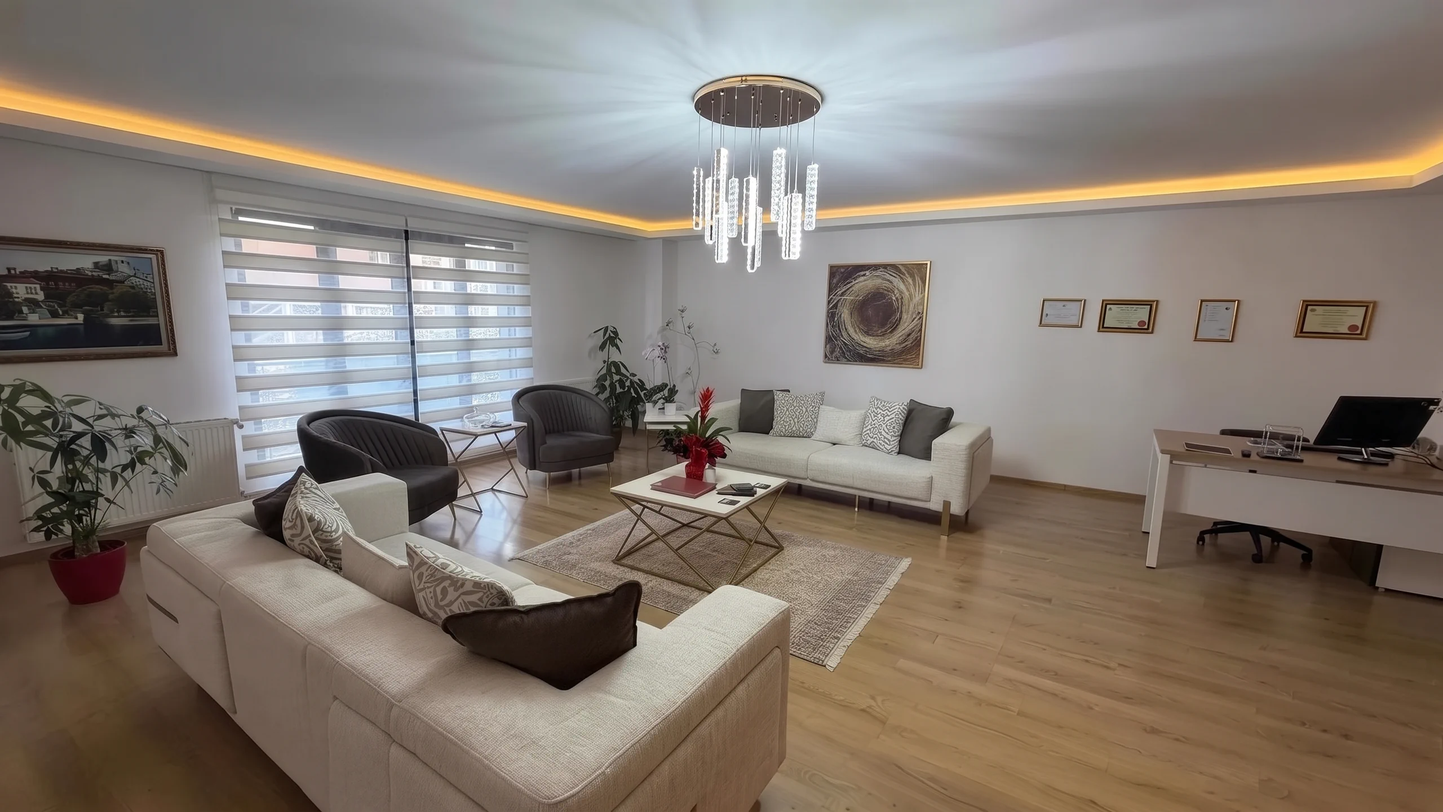
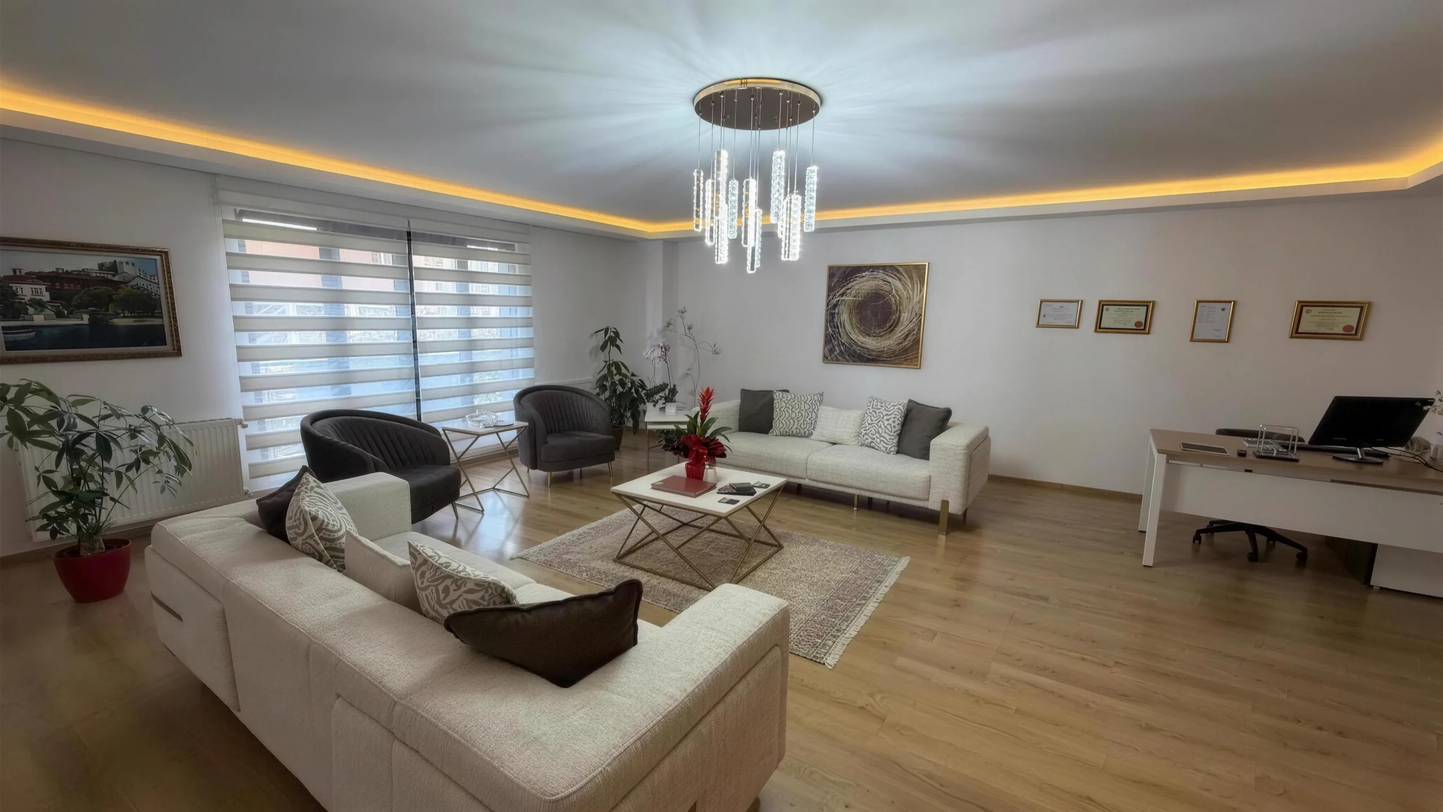
Muayenehane ve cihaz görselleri gerçek fotoğraflarına geri döndü (Tanıtım Yönetmeliği md. 7e)
- Bekleme salonu ×2, uygulama odası, PRP tüpleri ve 5 cihaz kesimi f40905e~1 hâline; medya.js eski satırları
  (WordPress'te eski dosya adları), yayın ilkeleri, mevzuat, klinik ve iletişim sayfaları eski metne döndü.
- Gerekçe: RG 12.11.2025/33075 md. 7(e) görsele sonradan teknolojik değişiklik yasağı; kullanıcı kararı.
- Konu anlatan 80 yapay zekâ görseli (rozetli) yeni 2K hâliyle kalıyor.
- Yerel: 9 yenileme hata 0, 104 ek kopya 0.

diff --git a/site/veri/medya.js b/site/veri/medya.js
@@ -32,16 +32,16 @@ const TABLO = {
   'foto/hekim-portre.webp': { ad: 'uzm-dr-rahmi-cebeci-portre', alt: 'Uzm. Dr. Rahmi Cebeci, Bakırköy’deki muayenehanesinde ayakta ve kolları bağlı', baslik: 'Uzm. Dr. Rahmi Cebeci — portre' },   /* hekim · rahmi cebeci */
   'foto/hekim-koltuk.webp': { ad: 'muayene-sureci-dr-rahmi-cebeci', alt: 'Muayene sürecini yürüten Uzm. Dr. Rahmi Cebeci, Bakırköy’deki muayenehanesinde koltukta otururken', baslik: 'Uzm. Dr. Rahmi Cebeci — muayenehanede' },   /* yaklasimimiz · muayene süreci */
   'foto/hekim-kare.webp': { ad: 'hekim-muayenesi-dr-rahmi-cebeci', alt: 'Hekim muayenesini yapan Uzm. Dr. Rahmi Cebeci, muayenehanesindeki koltuğunda', baslik: 'Uzm. Dr. Rahmi Cebeci — hekim muayenesi' },   /* uygulamalar/hekim-muayenesi · hekim muayenesi */
-  'foto/klinik-bekleme.webp': { ad: 'bakirkoy-muayenehane-bekleme-salonu', surum: '2k', alt: 'Dr. Rahmi Cebeci’nin Bakırköy muayenehanesindeki bekleme salonu', baslik: 'Muayenehane — bekleme salonu' },   /* klinik · bakırköy muayenehane */
-  'foto/klinik-bekleme-2.webp': { ad: 'iletisim-ve-randevu-karsilama-bankosu', surum: '2k', alt: 'İletişim ve randevu işlemlerinin yapıldığı karşılama bankosu ve muayenehanenin bekleme salonu', baslik: 'Muayenehane — karşılama bankosu' },   /* iletisim · iletişim ve randevu */
+  'foto/klinik-bekleme.webp': { ad: 'bakirkoy-muayenehane-bekleme-salonu', surum: 'hd', alt: 'Dr. Rahmi Cebeci’nin Bakırköy muayenehanesindeki bekleme salonu', baslik: 'Muayenehane — bekleme salonu' },   /* klinik · bakırköy muayenehane */
+  'foto/klinik-bekleme-2.webp': { ad: 'iletisim-ve-randevu-karsilama-bankosu', surum: 'hd', alt: 'İletişim ve randevu işlemlerinin yapıldığı karşılama bankosu ve muayenehanenin bekleme salonu', baslik: 'Muayenehane — karşılama bankosu' },   /* iletisim · iletişim ve randevu */
   'foto/klinik-cihaz-odasi.webp': { ad: 'dovme-silme-pikosaniye-lazer-cihaz-odasi', alt: 'Dövme silme için kullanılan pikosaniye lazer cihazının pencere önünde durduğu cihaz odası', baslik: 'Muayenehane — lazer ve cihaz odası' },   /* 28 Eyl'e kadar dövme silme kapağıydı; şu an sayfada yok, kütüphanede duruyor */
-  'foto/klinik-uygulama-odasi.webp': { ad: 'bakirkoy-muayenehane-uygulama-odasi', surum: '2k', alt: 'Bakırköy muayenehanemizde uygulamaların yapıldığı uygulama odası', baslik: 'Muayenehane — uygulama odası' },
-  'foto/prp-tupler.webp': { ad: 'sac-prp-kan-tupleri', surum: '2k', alt: 'Saç PRP için alınan kanın konduğu etiketli tüpler', baslik: 'Saç PRP — kan tüpleri' },
-  'foto/cihaz-pico-dekupe.webp': { ad: 'pikosaniye-lazer-cihazi-picodela-ii', surum: '2k', alt: 'Muayenehanede kullanılan pikosaniye lazer cihazı Picodela II (Nd:YAG)', baslik: 'Cihaz — Picodela II pikosaniye lazer' },
-  'foto/cihaz-fotona-dekupe.webp': { ad: 'fraksiyonel-lazer-cihazi-fotona-sp-dynamis', surum: '2k', alt: 'Muayenehanede kullanılan fraksiyonel lazer cihazı Fotona SP Dynamis', baslik: 'Cihaz — Fotona SP Dynamis' },
-  'foto/cihaz-altin-igne-dekupe.webp': { ad: 'altin-igne-radyofrekans-cihazi-allura', surum: '2k', alt: 'Muayenehanede kullanılan altın iğne radyofrekans cihazı Allura VI++ RF mikroiğne', baslik: 'Cihaz — Allura VI++ RF mikroiğne' },
-  'foto/cihaz-hifu-dekupe.webp': { ad: 'hifu-cihazi-allura-nano-hifu', surum: '2k', alt: 'Muayenehanede kullanılan HIFU cihazı Allura IV++ Nano HIFU', baslik: 'Cihaz — Allura IV++ Nano HIFU' },
-  'foto/cihaz-mezo-dekupe.webp': { ad: 'ignesiz-mezoterapi-cihazi-mes-button', surum: '2k', alt: 'Muayenehanede kullanılan iğnesiz mezoterapi cihazı Mes Button', baslik: 'Cihaz — Mes Button iğnesiz mezoterapi' },
+  'foto/klinik-uygulama-odasi.webp': { ad: 'bakirkoy-muayenehane-uygulama-odasi', surum: 'hd', alt: 'Bakırköy muayenehanemizde uygulamaların yapıldığı uygulama odası', baslik: 'Muayenehane — uygulama odası' },
+  'foto/prp-tupler.webp': { ad: 'sac-prp-kan-tupleri', alt: 'Saç PRP için alınan kanın konduğu etiketli tüpler', baslik: 'Saç PRP — kan tüpleri' },
+  'foto/cihaz-pico-dekupe.webp': { ad: 'pikosaniye-lazer-cihazi-picodela-ii', alt: 'Muayenehanede kullanılan pikosaniye lazer cihazı Picodela II (Nd:YAG)', baslik: 'Cihaz — Picodela II pikosaniye lazer' },
+  'foto/cihaz-fotona-dekupe.webp': { ad: 'fraksiyonel-lazer-cihazi-fotona-sp-dynamis', alt: 'Muayenehanede kullanılan fraksiyonel lazer cihazı Fotona SP Dynamis', baslik: 'Cihaz — Fotona SP Dynamis' },
+  'foto/cihaz-altin-igne-dekupe.webp': { ad: 'altin-igne-radyofrekans-cihazi-allura', alt: 'Muayenehanede kullanılan altın iğne radyofrekans cihazı Allura VI++ RF mikroiğne', baslik: 'Cihaz — Allura VI++ RF mikroiğne' },
+  'foto/cihaz-hifu-dekupe.webp': { ad: 'hifu-cihazi-allura-nano-hifu', alt: 'Muayenehanede kullanılan HIFU cihazı Allura IV++ Nano HIFU', baslik: 'Cihaz — Allura IV++ Nano HIFU' },
+  'foto/cihaz-mezo-dekupe.webp': { ad: 'ignesiz-mezoterapi-cihazi-mes-button', alt: 'Muayenehanede kullanılan iğnesiz mezoterapi cihazı Mes Button', baslik: 'Cihaz — Mes Button iğnesiz mezoterapi' },
 
   /* ---------- sayfa kapakları (üst kısım) ---------- */
   'gorsel/bolgeler-hero.webp': { ad: 'medikal-estetik-bolgeleri-yuz-boyun-omuz', surum: '2k', alt: 'Medikal estetik bölgeleri: yüzü, boynu ve omuzları yumuşak ışıkta görünen kadın', baslik: 'Bölgeler — kapak' },   /* bolgeler · medikal estetik bölgeleri */

diff --git a/site/veri/sayfalar/yasal/icerik-ve-gorsel-yayin-ilkelerimiz.js b/site/veri/sayfalar/yasal/icerik-ve-gorsel-yayin-ilkelerimiz.js
@@ -14,7 +14,7 @@ module.exports = {
   <div class="sar">
     <p class="g-etiket">Mevzuat notu</p>
     <h1>Yayın ve Görsel Kullanım Esaslarımız</h1>
-    <p class="g-bhero__alt">Sitemizde yer vermediğimiz içerikler bilinçli bir seçimin sonucudur: ücret bilgisi, hasta yorumları ve deneyim anlatıları, öncesi–sonrası karşılaştırmaları, hastalara ait fotoğraflar ve uygulama sırasında çekilmiş görüntüler. Bu seçimin iki dayanağı var: sağlık hizmetlerinin tanıtımına ilişkin güncel mevzuat ve hastada karşılığı olmayan bir beklenti uyandırmama kaygısı. Hekimin portreleri muayenehanemizde çekilmiş gerçek fotoğraflardır. Muayenehane ve cihaz görselleri, kendi fotoğraflarımız temel alınarak yapay zekâ ile yeniden işlenmiştir; mekânın düzeni ve cihazların görünümü korunmuştur. Konuyu anlatan diğer görseller yapay zekâ ile hazırlanmış temsilî görsellerdir ve sayfadaki büyük hâllerinin üzerinde bir rozetle belirtilir.</p>
+    <p class="g-bhero__alt">Sitemizde yer vermediğimiz içerikler bilinçli bir seçimin sonucudur: ücret bilgisi, hasta yorumları ve deneyim anlatıları, öncesi–sonrası karşılaştırmaları, hastalara ait fotoğraflar ve uygulama sırasında çekilmiş görüntüler. Bu seçimin iki dayanağı var: sağlık hizmetlerinin tanıtımına ilişkin güncel mevzuat ve hastada karşılığı olmayan bir beklenti uyandırmama kaygısı. Gerçek fotoğrafların tümü muayenehanemize aittir; geri kalan görseller yapay zekâ ile hazırlanmış temsilî görsellerdir ve sayfadaki büyük hâllerinin üzerinde bir rozetle belirtilir.</p>
     <div class="g-bmeta">
       <span><i></i>Son güncelleme: ${S.guncelleme}</span>
       <span><i></i>Hastalara ait görüntü ve yorum yok</span>
@@ -101,10 +101,9 @@ module.exports = {
       <div class="g-bblk" id="gorsellerin-kaynagi">
         <h2>Fotoğraflar ve temsilî görseller</h2>
         <div class="yazi">
-          <p>Sitede üç çeşit görsel var; hiçbiri hasta görüntüsü içermez. İlki hekimin portreleridir: muayenehanemizde çekilmiş gerçek fotoğraflardır.</p>
-          <p>İkincisi muayenehane ve cihaz görselleridir. Bekleme salonu, karşılama bankosu, uygulama odası ve muayenehanede kullanılan cihazların görselleri, kendi fotoğraflarımız temel alınarak yapay zekâ ile yeniden işlenmiştir. İşlemede mekânın düzeni ve cihazların görünümü korunmuştur; muayenehanede bulunmayan bir mekân ya da cihaz gösterilmez.</p>
-          <p>Üçüncüsü, anlatılanı somutlaştırmak için yapay zekâ ile hazırlanmış temsilî görsellerdir: yüz ve bölge çizimleri, cilt katmanlarını gösteren kesitler, doku ve ortam görselleri bu gruptadır. Bu görsellerin sayfadaki büyük hâlinde <b>“Temsilî görsel · yapay zekâ ile üretildi”</b> rozeti yer alır. Rozet küçük bir dipnota ya da sayfa sonuna saklanmaz; doğrudan görselin üzerinde, okunabilir biçimde durur. Bölge ve cilt sorunu sayfalarında uygulama tablosunun yanında açılan küçük önizleme kartında ise aynı görsellerin küçük bir kopyası gösterilir; bu kartta ayrıca rozet bulunmaz, rozetli büyük hâli bağlantının götürdüğü uygulama sayfasındadır.</p>
-          <p>Yapay zekâ görsellerine başvurmadığımız alanlar da nettir: klinik bir bulguyu anlatmak, herhangi bir tedavi sonucunu düşündürecek bir kompozisyon kurmak, hekimi ya da ekibi temsil etmek, muayenehanede bulunmayan bir mekânı ya da cihazı varmış gibi göstermek. Amacımız, sitedeki görsellerin hiçbirinin muayenehaneyi olduğundan farklı göstermemesi ve hastada karşılığı olmayan bir beklenti uyandırmamasıdır.</p>
+          <p>Sitede iki çeşit görsel var; ikisi de hasta görüntüsü içermez. İlki gerçek fotoğraflardır: hekimin portreleri, bekleme salonu, karşılama bankosu, uygulama odası, cihaz odası ve muayenehanede kullanılan cihazların fotoğrafları muayenehanemize aittir. Bu fotoğraflarda kişiler, mekân ve cihazlar olduğundan başka türlü gösterilmez; bu yüzden üzerlerinde yapay zekâ rozeti yer almaz.</p>
+          <p>İkincisi, anlatılanı somutlaştırmak için yapay zekâ ile hazırlanmış temsilî görsellerdir: yüz ve bölge çizimleri, cilt katmanlarını gösteren kesitler, doku ve ortam görselleri bu gruptadır. Bu görsellerin sayfadaki büyük hâlinde <b>“Temsilî görsel · yapay zekâ ile üretildi”</b> rozeti yer alır. Rozet küçük bir dipnota ya da sayfa sonuna saklanmaz; doğrudan görselin üzerinde, okunabilir biçimde durur. Bölge ve cilt sorunu sayfalarında uygulama tablosunun yanında açılan küçük önizleme kartında ise aynı görsellerin küçük bir kopyası gösterilir; bu kartta ayrıca rozet bulunmaz, rozetli büyük hâli bağlantının götürdüğü uygulama sayfasındadır.</p>
+          <p>Yapay zekâ görsellerine başvurmadığımız alanlar da nettir: klinik bir bulguyu anlatmak, herhangi bir tedavi sonucunu düşündürecek bir kompozisyon kurmak, hekimi ya da ekibi temsil etmek, muayenehanenin kendisini veya cihazlarını gerçekmiş gibi göstermek. Amacımız, sitedeki herhangi bir görsele bakan kişinin onun muayenehaneye ait gerçek bir fotoğraf mı, yoksa konuyu anlatmaya yardım eden temsilî bir çizim mi olduğunu hemen ayırt edebilmesi.</p>
         </div>
       </div>
 

diff --git a/docs/yasal/icerik-ve-gorsel-yayin-ilkelerimiz/index.html b/docs/yasal/icerik-ve-gorsel-yayin-ilkelerimiz/index.html
@@ -80,7 +80,7 @@
   <div class="sar">
     <p class="g-etiket">Mevzuat notu</p>
     <h1>Yayın ve Görsel Kullanım Esaslarımız</h1>
-    <p class="g-bhero__alt">Sitemizde yer vermediğimiz içerikler bilinçli bir seçimin sonucudur: ücret bilgisi, hasta yorumları ve deneyim anlatıları, öncesi–sonrası karşılaştırmaları, hastalara ait fotoğraflar ve uygulama sırasında çekilmiş görüntüler. Bu seçimin iki dayanağı var: sağlık hizmetlerinin tanıtımına ilişkin güncel mevzuat ve hastada karşılığı olmayan bir beklenti uyandırmama kaygısı. Hekimin portreleri muayenehanemizde çekilmiş gerçek fotoğraflardır. Muayenehane ve cihaz görselleri, kendi fotoğraflarımız temel alınarak yapay zekâ ile yeniden işlenmiştir; mekânın düzeni ve cihazların görünümü korunmuştur. Konuyu anlatan diğer görseller yapay zekâ ile hazırlanmış temsilî görsellerdir ve sayfadaki büyük hâllerinin üzerinde bir rozetle belirtilir.</p>
+    <p class="g-bhero__alt">Sitemizde yer vermediğimiz içerikler bilinçli bir seçimin sonucudur: ücret bilgisi, hasta yorumları ve deneyim anlatıları, öncesi–sonrası karşılaştırmaları, hastalara ait fotoğraflar ve uygulama sırasında çekilmiş görüntüler. Bu seçimin iki dayanağı var: sağlık hizmetlerinin tanıtımına ilişkin güncel mevzuat ve hastada karşılığı olmayan bir beklenti uyandırmama kaygısı. Gerçek fotoğrafların tümü muayenehanemize aittir; geri kalan görseller yapay zekâ ile hazırlanmış temsilî görsellerdir ve sayfadaki büyük hâllerinin üzerinde bir rozetle belirtilir.</p>
     <div class="g-bmeta">
       <span><i></i>Son güncelleme: 25.09.2026</span>
       <span><i></i>Hastalara ait görüntü ve yorum yok</span>
@@ -167,10 +167,9 @@
       <div class="g-bblk" id="gorsellerin-kaynagi">
         <h2>Fotoğraflar ve temsilî görseller</h2>
         <div class="yazi">
-          <p>Sitede üç çeşit görsel var; hiçbiri hasta görüntüsü içermez. İlki hekimin portreleridir: muayenehanemizde çekilmiş gerçek fotoğraflardır.</p>
-          <p>İkincisi muayenehane ve cihaz görselleridir. Bekleme salonu, karşılama bankosu, uygulama odası ve muayenehanede kullanılan cihazların görselleri, kendi fotoğraflarımız temel alınarak yapay zekâ ile yeniden işlenmiştir. İşlemede mekânın düzeni ve cihazların görünümü korunmuştur; muayenehanede bulunmayan bir mekân ya da cihaz gösterilmez.</p>
-          <p>Üçüncüsü, anlatılanı somutlaştırmak için yapay zekâ ile hazırlanmış temsilî görsellerdir: yüz ve bölge çizimleri, cilt katmanlarını gösteren kesitler, doku ve ortam görselleri bu gruptadır. Bu görsellerin sayfadaki büyük hâlinde <b>“Temsilî görsel · yapay zekâ ile üretildi”</b> rozeti yer alır. Rozet küçük bir dipnota ya da sayfa sonuna saklanmaz; doğrudan görselin üzerinde, okunabilir biçimde durur. Bölge ve cilt sorunu sayfalarında uygulama tablosunun yanında açılan küçük önizleme kartında ise aynı görsellerin küçük bir kopyası gösterilir; bu kartta ayrıca rozet bulunmaz, rozetli büyük hâli bağlantının götürdüğü uygulama sayfasındadır.</p>
-          <p>Yapay zekâ görsellerine başvurmadığımız alanlar da nettir: klinik bir bulguyu anlatmak, herhangi bir tedavi sonucunu düşündürecek bir kompozisyon kurmak, hekimi ya da ekibi temsil etmek, muayenehanede bulunmayan bir mekânı ya da cihazı varmış gibi göstermek. Amacımız, sitedeki görsellerin hiçbirinin muayenehaneyi olduğundan farklı göstermemesi ve hastada karşılığı olmayan bir beklenti uyandırmamasıdır.</p>
+          <p>Sitede iki çeşit görsel var; ikisi de hasta görüntüsü içermez. İlki gerçek fotoğraflardır: hekimin portreleri, bekleme salonu, karşılama bankosu, uygulama odası, cihaz odası ve muayenehanede kullanılan cihazların fotoğrafları muayenehanemize aittir. Bu fotoğraflarda kişiler, mekân ve cihazlar olduğundan başka türlü gösterilmez; bu yüzden üzerlerinde yapay zekâ rozeti yer almaz.</p>
+          <p>İkincisi, anlatılanı somutlaştırmak için yapay zekâ ile hazırlanmış temsilî görsellerdir: yüz ve bölge çizimleri, cilt katmanlarını gösteren kesitler, doku ve ortam görselleri bu gruptadır. Bu görsellerin sayfadaki büyük hâlinde <b>“Temsilî görsel · yapay zekâ ile üretildi”</b> rozeti yer alır. Rozet küçük bir dipnota ya da sayfa sonuna saklanmaz; doğrudan görselin üzerinde, okunabilir biçimde durur. Bölge ve cilt sorunu sayfalarında uygulama tablosunun yanında açılan küçük önizleme kartında ise aynı görsellerin küçük bir kopyası gösterilir; bu kartta ayrıca rozet bulunmaz, rozetli büyük hâli bağlantının götürdüğü uygulama sayfasındadır.</p>
+          <p>Yapay zekâ görsellerine başvurmadığımız alanlar da nettir: klinik bir bulguyu anlatmak, herhangi bir tedavi sonucunu düşündürecek bir kompozisyon kurmak, hekimi ya da ekibi temsil etmek, muayenehanenin kendisini veya cihazlarını gerçekmiş gibi göstermek. Amacımız, sitedeki herhangi bir görsele bakan kişinin onun muayenehaneye ait gerçek bir fotoğraf mı, yoksa konuyu anlatmaya yardım eden temsilî bir çizim mi olduğunu hemen ayırt edebilmesi.</p>
         </div>
       </div>
 

diff --git a/yayin/yasal/icerik-ve-gorsel-yayin-ilkelerimiz/index.html b/yayin/yasal/icerik-ve-gorsel-yayin-ilkelerimiz/index.html
@@ -80,7 +80,7 @@
   <div class="sar">
     <p class="g-etiket">Mevzuat notu</p>
     <h1>Yayın ve Görsel Kullanım Esaslarımız</h1>
-    <p class="g-bhero__alt">Sitemizde yer vermediğimiz içerikler bilinçli bir seçimin sonucudur: ücret bilgisi, hasta yorumları ve deneyim anlatıları, öncesi–sonrası karşılaştırmaları, hastalara ait fotoğraflar ve uygulama sırasında çekilmiş görüntüler. Bu seçimin iki dayanağı var: sağlık hizmetlerinin tanıtımına ilişkin güncel mevzuat ve hastada karşılığı olmayan bir beklenti uyandırmama kaygısı. Hekimin portreleri muayenehanemizde çekilmiş gerçek fotoğraflardır. Muayenehane ve cihaz görselleri, kendi fotoğraflarımız temel alınarak yapay zekâ ile yeniden işlenmiştir; mekânın düzeni ve cihazların görünümü korunmuştur. Konuyu anlatan diğer görseller yapay zekâ ile hazırlanmış temsilî görsellerdir ve sayfadaki büyük hâllerinin üzerinde bir rozetle belirtilir.</p>
+    <p class="g-bhero__alt">Sitemizde yer vermediğimiz içerikler bilinçli bir seçimin sonucudur: ücret bilgisi, hasta yorumları ve deneyim anlatıları, öncesi–sonrası karşılaştırmaları, hastalara ait fotoğraflar ve uygulama sırasında çekilmiş görüntüler. Bu seçimin iki dayanağı var: sağlık hizmetlerinin tanıtımına ilişkin güncel mevzuat ve hastada karşılığı olmayan bir beklenti uyandırmama kaygısı. Gerçek fotoğrafların tümü muayenehanemize aittir; geri kalan görseller yapay zekâ ile hazırlanmış temsilî görsellerdir ve sayfadaki büyük hâllerinin üzerinde bir rozetle belirtilir.</p>
     <div class="g-bmeta">
       <span><i></i>Son güncelleme: 25.09.2026</span>
       <span><i></i>Hastalara ait görüntü ve yorum yok</span>
@@ -167,10 +167,9 @@
       <div class="g-bblk" id="gorsellerin-kaynagi">
         <h2>Fotoğraflar ve temsilî görseller</h2>
         <div class="yazi">
-          <p>Sitede üç çeşit görsel var; hiçbiri hasta görüntüsü içermez. İlki hekimin portreleridir: muayenehanemizde çekilmiş gerçek fotoğraflardır.</p>
-          <p>İkincisi muayenehane ve cihaz görselleridir. Bekleme salonu, karşılama bankosu, uygulama odası ve muayenehanede kullanılan cihazların görselleri, kendi fotoğraflarımız temel alınarak yapay zekâ ile yeniden işlenmiştir. İşlemede mekânın düzeni ve cihazların görünümü korunmuştur; muayenehanede bulunmayan bir mekân ya da cihaz gösterilmez.</p>
-          <p>Üçüncüsü, anlatılanı somutlaştırmak için yapay zekâ ile hazırlanmış temsilî görsellerdir: yüz ve bölge çizimleri, cilt katmanlarını gösteren kesitler, doku ve ortam görselleri bu gruptadır. Bu görsellerin sayfadaki büyük hâlinde <b>“Temsilî görsel · yapay zekâ ile üretildi”</b> rozeti yer alır. Rozet küçük bir dipnota ya da sayfa sonuna saklanmaz; doğrudan görselin üzerinde, okunabilir biçimde durur. Bölge ve cilt sorunu sayfalarında uygulama tablosunun yanında açılan küçük önizleme kartında ise aynı görsellerin küçük bir kopyası gösterilir; bu kartta ayrıca rozet bulunmaz, rozetli büyük hâli bağlantının götürdüğü uygulama sayfasındadır.</p>
-          <p>Yapay zekâ görsellerine başvurmadığımız alanlar da nettir: klinik bir bulguyu anlatmak, herhangi bir tedavi sonucunu düşündürecek bir kompozisyon kurmak, hekimi ya da ekibi temsil etmek, muayenehanede bulunmayan bir mekânı ya da cihazı varmış gibi göstermek. Amacımız, sitedeki görsellerin hiçbirinin muayenehaneyi olduğundan farklı göstermemesi ve hastada karşılığı olmayan bir beklenti uyandırmamasıdır.</p>
+          <p>Sitede iki çeşit görsel var; ikisi de hasta görüntüsü içermez. İlki gerçek fotoğraflardır: hekimin portreleri, bekleme salonu, karşılama bankosu, uygulama odası, cihaz odası ve muayenehanede kullanılan cihazların fotoğrafları muayenehanemize aittir. Bu fotoğraflarda kişiler, mekân ve cihazlar olduğundan başka türlü gösterilmez; bu yüzden üzerlerinde yapay zekâ rozeti yer almaz.</p>
+          <p>İkincisi, anlatılanı somutlaştırmak için yapay zekâ ile hazırlanmış temsilî görsellerdir: yüz ve bölge çizimleri, cilt katmanlarını gösteren kesitler, doku ve ortam görselleri bu gruptadır. Bu görsellerin sayfadaki büyük hâlinde <b>“Temsilî görsel · yapay zekâ ile üretildi”</b> rozeti yer alır. Rozet küçük bir dipnota ya da sayfa sonuna saklanmaz; doğrudan görselin üzerinde, okunabilir biçimde durur. Bölge ve cilt sorunu sayfalarında uygulama tablosunun yanında açılan küçük önizleme kartında ise aynı görsellerin küçük bir kopyası gösterilir; bu kartta ayrıca rozet bulunmaz, rozetli büyük hâli bağlantının götürdüğü uygulama sayfasındadır.</p>
+          <p>Yapay zekâ görsellerine başvurmadığımız alanlar da nettir: klinik bir bulguyu anlatmak, herhangi bir tedavi sonucunu düşündürecek bir kompozisyon kurmak, hekimi ya da ekibi temsil etmek, muayenehanenin kendisini veya cihazlarını gerçekmiş gibi göstermek. Amacımız, sitedeki herhangi bir görsele bakan kişinin onun muayenehaneye ait gerçek bir fotoğraf mı, yoksa konuyu anlatmaya yardım eden temsilî bir çizim mi olduğunu hemen ayırt edebilmesi.</p>
         </div>
       </div>
 

diff --git a/site/veri/sayfalar/23-mevzuat.js b/site/veri/sayfalar/23-mevzuat.js
@@ -81,7 +81,7 @@ module.exports = {
 
       <h3>Öncesi–sonrası görseli neden yayımlanmıyor?</h3>
       <p>Uygulamanın öncesini ve sonrasını yan yana gösteren görsellerin tanıtımda kullanılması kabul edilmez. Işık, açı, duruş, makyaj ve fotoğraf düzenlemesiyle kolayca değişebilen bu görseller gerçekçi bir beklenti kurmaz.</p>
-<p>Üstelik sizde neyin değişeceğini göstermezler; girişimsel her uygulamada sonuç kişiden kişiye farklılık gösterebilir. Sitedeki görseller yalnızca ortamı tanıtmak ve konuyu anlatmak içindir; konuyu anlatan yapay zekâ görselleri ayrıca işaretlenir, muayenehane ve cihaz görselleri ise kendi fotoğraflarımızdan yapay zekâ ile yeniden işlenmiştir.</p>
+<p>Üstelik sizde neyin değişeceğini göstermezler; girişimsel her uygulamada sonuç kişiden kişiye farklılık gösterebilir. Sitedeki görseller yalnızca ortamı tanıtmak ve konuyu anlatmak içindir; yapay zekâ ile üretilenler ayrıca işaretlenir.</p>
 
       <h3>Cihaz ve ürün adlarını nasıl kullanıyoruz?</h3>
       <p>Uygulama sayfalarında yöntemin genel adı kullanılır; örneğin “pikosaniye lazer” ya da “dolgu uygulaması” denir. Muayenehanedeki cihazların model adları yalnızca muayenehane sayfasındaki cihaz listesinde ve ilgili uygulama sayfasındaki tek bir bilgi satırında, tanıtım unsuru olarak değil envanter bilgisi olarak geçer.</p>

diff --git a/docs/mevzuat/index.html b/docs/mevzuat/index.html
@@ -147,7 +147,7 @@
 
       <h3>Öncesi–sonrası görseli neden yayımlanmıyor?</h3>
       <p>Uygulamanın öncesini ve sonrasını yan yana gösteren görsellerin tanıtımda kullanılması kabul edilmez. Işık, açı, duruş, makyaj ve fotoğraf düzenlemesiyle kolayca değişebilen bu görseller gerçekçi bir beklenti kurmaz.</p>
-<p>Üstelik sizde neyin değişeceğini göstermezler; girişimsel her uygulamada sonuç kişiden kişiye farklılık gösterebilir. Sitedeki görseller yalnızca ortamı tanıtmak ve konuyu anlatmak içindir; konuyu anlatan yapay zekâ görselleri ayrıca işaretlenir, muayenehane ve cihaz görselleri ise kendi fotoğraflarımızdan yapay zekâ ile yeniden işlenmiştir.</p>
+<p>Üstelik sizde neyin değişeceğini göstermezler; girişimsel her uygulamada sonuç kişiden kişiye farklılık gösterebilir. Sitedeki görseller yalnızca ortamı tanıtmak ve konuyu anlatmak içindir; yapay zekâ ile üretilenler ayrıca işaretlenir.</p>
 
       <h3>Cihaz ve ürün adlarını nasıl kullanıyoruz?</h3>
       <p>Uygulama sayfalarında yöntemin genel adı kullanılır; örneğin “pikosaniye lazer” ya da “dolgu uygulaması” denir. Muayenehanedeki cihazların model adları yalnızca muayenehane sayfasındaki cihaz listesinde ve ilgili uygulama sayfasındaki tek bir bilgi satırında, tanıtım unsuru olarak değil envanter bilgisi olarak geçer.</p>

diff --git a/yayin/mevzuat/index.html b/yayin/mevzuat/index.html
@@ -147,7 +147,7 @@
 
       <h3>Öncesi–sonrası görseli neden yayımlanmıyor?</h3>
       <p>Uygulamanın öncesini ve sonrasını yan yana gösteren görsellerin tanıtımda kullanılması kabul edilmez. Işık, açı, duruş, makyaj ve fotoğraf düzenlemesiyle kolayca değişebilen bu görseller gerçekçi bir beklenti kurmaz.</p>
-<p>Üstelik sizde neyin değişeceğini göstermezler; girişimsel her uygulamada sonuç kişiden kişiye farklılık gösterebilir. Sitedeki görseller yalnızca ortamı tanıtmak ve konuyu anlatmak içindir; konuyu anlatan yapay zekâ görselleri ayrıca işaretlenir, muayenehane ve cihaz görselleri ise kendi fotoğraflarımızdan yapay zekâ ile yeniden işlenmiştir.</p>
+<p>Üstelik sizde neyin değişeceğini göstermezler; girişimsel her uygulamada sonuç kişiden kişiye farklılık gösterebilir. Sitedeki görseller yalnızca ortamı tanıtmak ve konuyu anlatmak içindir; yapay zekâ ile üretilenler ayrıca işaretlenir.</p>
 
       <h3>Cihaz ve ürün adlarını nasıl kullanıyoruz?</h3>
       <p>Uygulama sayfalarında yöntemin genel adı kullanılır; örneğin “pikosaniye lazer” ya da “dolgu uygulaması” denir. Muayenehanedeki cihazların model adları yalnızca muayenehane sayfasındaki cihaz listesinde ve ilgili uygulama sayfasındaki tek bir bilgi satırında, tanıtım unsuru olarak değil envanter bilgisi olarak geçer.</p>

diff --git a/docs/iletisim/index.html b/docs/iletisim/index.html
@@ -92,7 +92,7 @@
     <div class="g-tarama" data-gr>
       <img src="../varliklar/foto/klinik-bekleme-2.webp" width="1400" height="788" alt="İletişim ve randevu işlemlerinin yapıldığı karşılama bankosu ve muayenehanenin bekleme salonu" loading="eager">
       <div class="g-isin"></div>
-      <!-- muayenehanenin kendi fotoğrafından yapay zekâ ile yeniden işlendi (5 Eki 2026); rozet kullanıcı kararıyla yok, açıklama yayın ilkeleri sayfasında -->
+      <!-- gerçek fotoğraf: yapay zekâ rozeti bilinçli olarak YOK -->
       <div class="g-hud"><b>Bakırköy / İstanbul</b><div class="g-cizgi"></div><span>Cevizlik Mah. Ebuzziya Cad. No:47/1</span></div>
     </div>
   </div>

diff --git a/yayin/iletisim/index.html b/yayin/iletisim/index.html
@@ -92,7 +92,7 @@
     <div class="g-tarama" data-gr>
       <img src="../varliklar/foto/klinik-bekleme-2.webp" width="1400" height="788" alt="İletişim ve randevu işlemlerinin yapıldığı karşılama bankosu ve muayenehanenin bekleme salonu" loading="eager">
       <div class="g-isin"></div>
-      <!-- muayenehanenin kendi fotoğrafından yapay zekâ ile yeniden işlendi (5 Eki 2026); rozet kullanıcı kararıyla yok, açıklama yayın ilkeleri sayfasında -->
+      <!-- gerçek fotoğraf: yapay zekâ rozeti bilinçli olarak YOK -->
       <div class="g-hud"><b>Bakırköy / İstanbul</b><div class="g-cizgi"></div><span>Cevizlik Mah. Ebuzziya Cad. No:47/1</span></div>
     </div>
   </div>

diff --git a/docs/klinik/index.html b/docs/klinik/index.html
@@ -92,7 +92,7 @@
     <div class="g-tarama" data-gr>
       <img src="../varliklar/foto/klinik-bekleme.webp" width="1400" height="788" alt="Dr. Rahmi Cebeci’nin Bakırköy muayenehanesindeki bekleme salonu" loading="eager">
       <div class="g-isin"></div>
-      <!-- muayenehanenin kendi fotoğrafından yapay zekâ ile yeniden işlendi (5 Eki 2026); rozet kullanıcı kararıyla yok, açıklama yayın ilkeleri sayfasında -->
+      <!-- gerçek fotoğraf: yapay zekâ rozeti bilinçli olarak YOK -->
       <div class="g-hud"><b>Bakırköy / İstanbul</b><div class="g-cizgi"></div><span>Cevizlik Mah. Ebuzziya Cad. No:47/1</span></div>
     </div>
   </div>

diff --git a/yayin/klinik/index.html b/yayin/klinik/index.html
@@ -92,7 +92,7 @@
     <div class="g-tarama" data-gr>
       <img src="../varliklar/foto/klinik-bekleme.webp" width="1400" height="788" alt="Dr. Rahmi Cebeci’nin Bakırköy muayenehanesindeki bekleme salonu" loading="eager">
       <div class="g-isin"></div>
-      <!-- muayenehanenin kendi fotoğrafından yapay zekâ ile yeniden işlendi (5 Eki 2026); rozet kullanıcı kararıyla yok, açıklama yayın ilkeleri sayfasında -->
+      <!-- gerçek fotoğraf: yapay zekâ rozeti bilinçli olarak YOK -->
       <div class="g-hud"><b>Bakırköy / İstanbul</b><div class="g-cizgi"></div><span>Cevizlik Mah. Ebuzziya Cad. No:47/1</span></div>
     </div>
   </div>

diff --git a/site/veri/sayfalar/13-klinik.js b/site/veri/sayfalar/13-klinik.js
@@ -26,7 +26,7 @@ module.exports = {
     <div class="g-tarama" data-gr>
       <img src="${r}varliklar/foto/klinik-bekleme.webp" width="1400" height="788" alt="${S.iletisim.semt}’deki muayenehanenin bekleme salonu" loading="eager">
       <div class="g-isin"></div>
-      <!-- muayenehanenin kendi fotoğrafından yapay zekâ ile yeniden işlendi (5 Eki 2026); rozet kullanıcı kararıyla yok, açıklama yayın ilkeleri sayfasında -->
+      <!-- gerçek fotoğraf: yapay zekâ rozeti bilinçli olarak YOK -->
       <div class="g-hud"><b>${S.iletisim.ilce}</b><div class="g-cizgi"></div><span>${S.iletisim.adres}</span></div>
     </div>
   </div>
